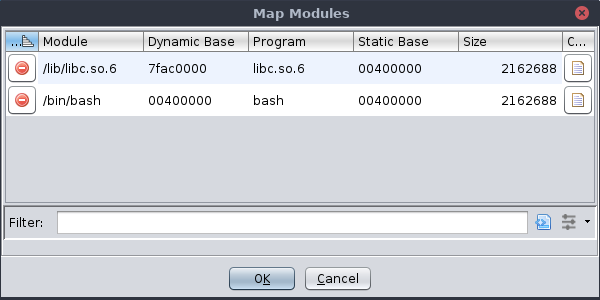
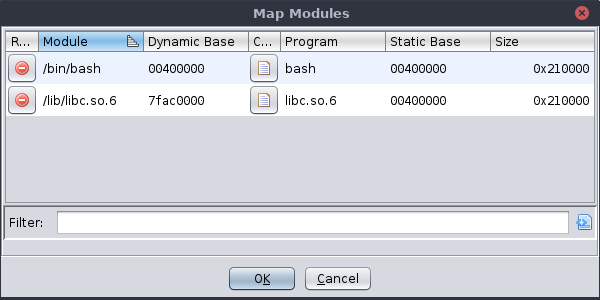
GP-642,944: Map Modules/Sections Dialog improvements

diff --git a/Ghidra/Debug/Debugger/src/main/java/ghidra/app/plugin/core/debug/gui/modules/DebuggerSectionMapProposalDialog.java b/Ghidra/Debug/Debugger/src/main/java/ghidra/app/plugin/core/debug/gui/modules/DebuggerSectionMapProposalDialog.java
@@ -15,6 +15,7 @@
  */
 package ghidra.app.plugin.core.debug.gui.modules;
 
+import java.util.List;
 import java.util.Map;
 import java.util.function.BiConsumer;
 import java.util.function.Function;
@@ -35,20 +36,19 @@ import ghidra.util.Swing;
 public class DebuggerSectionMapProposalDialog
 		extends AbstractDebuggerMapProposalDialog<SectionMapEntry> {
 
-	static final String BLANK = "";
 	static final int BUTTON_SIZE = 32;
 
 	protected enum SectionMapTableColumns
 		implements EnumeratedTableColumn<SectionMapTableColumns, SectionMapEntry> {
-		REMOVE("Remove", String.class, e -> BLANK, (e, v) -> nop()),
+		REMOVE("Remove", String.class, e -> "Remove Proposed Entry", (e, v) -> nop()),
 		MODULE_NAME("Module", String.class, e -> e.getModule().getName()),
 		SECTION_NAME("Section", String.class, e -> e.getSection().getName()),
 		DYNAMIC_BASE("Dynamic Base", Address.class, e -> e.getSection().getStart()),
+		CHOOSE("Choose", String.class, e -> "Choose Block", (e, s) -> nop()),
 		PROGRAM_NAME("Program", String.class, e -> e.getProgram().getName()),
 		BLOCK_NAME("Block", String.class, e -> e.getBlock().getName()),
 		STATIC_BASE("Static Base", Address.class, e -> e.getBlock().getStart()),
-		SIZE("Size", Long.class, e -> e.getLength()),
-		CHOOSE("Choose", String.class, e -> BLANK, (e, s) -> nop());
+		SIZE("Size", Long.class, e -> e.getLength());
 
 		private final String header;
 		private final Class<?> cls;
@@ -98,6 +98,19 @@ public class DebuggerSectionMapProposalDialog
 		}
 	}
 
+	protected static class SectionMapPropsalTableModel extends
+			DefaultEnumeratedColumnTableModel<SectionMapTableColumns, SectionMapEntry> {
+
+		public SectionMapPropsalTableModel() {
+			super("Section Map", SectionMapTableColumns.class);
+		}
+
+		@Override
+		public List<SectionMapTableColumns> defaultSortOrder() {
+			return List.of(SectionMapTableColumns.MODULE_NAME, SectionMapTableColumns.SECTION_NAME);
+		}
+	}
+
 	private final DebuggerModulesProvider provider;
 
 	public DebuggerSectionMapProposalDialog(DebuggerModulesProvider provider) {
@@ -106,8 +119,8 @@ public class DebuggerSectionMapProposalDialog
 	}
 
 	@Override
-	protected EnumeratedColumnTableModel<SectionMapEntry> createTableModel() {
-		return new DefaultEnumeratedColumnTableModel<>("Section Map", SectionMapTableColumns.class);
+	protected SectionMapPropsalTableModel createTableModel() {
+		return new SectionMapPropsalTableModel();
 	}
 
 	@Override
@@ -121,9 +134,19 @@ public class DebuggerSectionMapProposalDialog
 		CellEditorUtils.installButton(table, filterPanel, removeCol,
 			DebuggerResources.ICON_DELETE, BUTTON_SIZE, this::removeEntry);
 
+		TableColumn dynBaseCol =
+			columnModel.getColumn(SectionMapTableColumns.DYNAMIC_BASE.ordinal());
+		dynBaseCol.setCellRenderer(CustomToStringCellRenderer.MONO_OBJECT);
+
 		TableColumn chooseCol = columnModel.getColumn(SectionMapTableColumns.CHOOSE.ordinal());
 		CellEditorUtils.installButton(table, filterPanel, chooseCol, DebuggerResources.ICON_PROGRAM,
 			BUTTON_SIZE, this::chooseAndSetBlock);
+
+		TableColumn stBaseCol = columnModel.getColumn(SectionMapTableColumns.STATIC_BASE.ordinal());
+		stBaseCol.setCellRenderer(CustomToStringCellRenderer.MONO_OBJECT);
+
+		TableColumn sizeCol = columnModel.getColumn(SectionMapTableColumns.SIZE.ordinal());
+		sizeCol.setCellRenderer(CustomToStringCellRenderer.MONO_ULONG_HEX);
 	}
 
 	private void chooseAndSetBlock(SectionMapEntry entry) {

diff --git a/Ghidra/Debug/Debugger/src/main/java/ghidra/app/plugin/core/debug/gui/modules/DebuggerModuleMapProposalDialog.java b/Ghidra/Debug/Debugger/src/main/java/ghidra/app/plugin/core/debug/gui/modules/DebuggerModuleMapProposalDialog.java
@@ -15,6 +15,7 @@
  */
 package ghidra.app.plugin.core.debug.gui.modules;
 
+import java.util.List;
 import java.util.function.BiConsumer;
 import java.util.function.Function;
 
@@ -34,18 +35,17 @@ import ghidra.util.Swing;
 public class DebuggerModuleMapProposalDialog
 		extends AbstractDebuggerMapProposalDialog<ModuleMapEntry> {
 
-	static final String BLANK = "";
 	static final int BUTTON_SIZE = 32;
 
 	protected enum ModuleMapTableColumns
 		implements EnumeratedTableColumn<ModuleMapTableColumns, ModuleMapEntry> {
-		REMOVE("Remove", String.class, e -> BLANK, (e, v) -> nop()),
+		REMOVE("Remove", String.class, e -> "Remove Proposed Entry", (e, v) -> nop()),
 		MODULE_NAME("Module", String.class, e -> e.getModule().getName()),
 		DYNAMIC_BASE("Dynamic Base", Address.class, e -> e.getModule().getBase()),
+		CHOOSE("Choose", String.class, e -> "Choose Program", (e, v) -> nop()),
 		PROGRAM_NAME("Program", String.class, e -> e.getProgram().getName()),
 		STATIC_BASE("Static Base", Address.class, e -> e.getProgram().getImageBase()),
-		SIZE("Size", Long.class, e -> e.getModuleRange().getLength()),
-		CHOOSE("Choose", String.class, e -> BLANK, (e, v) -> nop());
+		SIZE("Size", Long.class, e -> e.getModuleRange().getLength());
 
 		private final String header;
 		private final Class<?> cls;
@@ -94,6 +94,19 @@ public class DebuggerModuleMapProposalDialog
 		}
 	}
 
+	protected static class ModuleMapPropsalTableModel extends
+			DefaultEnumeratedColumnTableModel<ModuleMapTableColumns, ModuleMapEntry> {
+
+		public ModuleMapPropsalTableModel() {
+			super("Module Map", ModuleMapTableColumns.class);
+		}
+
+		@Override
+		public List<ModuleMapTableColumns> defaultSortOrder() {
+			return List.of(ModuleMapTableColumns.MODULE_NAME);
+		}
+	}
+
 	private final DebuggerModulesProvider provider;
 
 	protected DebuggerModuleMapProposalDialog(DebuggerModulesProvider provider) {
@@ -102,8 +115,8 @@ public class DebuggerModuleMapProposalDialog
 	}
 
 	@Override
-	protected EnumeratedColumnTableModel<ModuleMapEntry> createTableModel() {
-		return new DefaultEnumeratedColumnTableModel<>("Module Map", ModuleMapTableColumns.class);
+	protected ModuleMapPropsalTableModel createTableModel() {
+		return new ModuleMapPropsalTableModel();
 	}
 
 	@Override
@@ -117,9 +130,19 @@ public class DebuggerModuleMapProposalDialog
 		CellEditorUtils.installButton(table, filterPanel, removeCol,
 			DebuggerResources.ICON_DELETE, BUTTON_SIZE, this::removeEntry);
 
+		TableColumn dynBaseCol =
+			columnModel.getColumn(ModuleMapTableColumns.DYNAMIC_BASE.ordinal());
+		dynBaseCol.setCellRenderer(CustomToStringCellRenderer.MONO_OBJECT);
+
 		TableColumn chooseCol = columnModel.getColumn(ModuleMapTableColumns.CHOOSE.ordinal());
 		CellEditorUtils.installButton(table, filterPanel, chooseCol,
 			DebuggerResources.ICON_PROGRAM, BUTTON_SIZE, this::chooseAndSetProgram);
+
+		TableColumn stBaseCol = columnModel.getColumn(ModuleMapTableColumns.STATIC_BASE.ordinal());
+		stBaseCol.setCellRenderer(CustomToStringCellRenderer.MONO_OBJECT);
+
+		TableColumn sizeCol = columnModel.getColumn(ModuleMapTableColumns.SIZE.ordinal());
+		sizeCol.setCellRenderer(CustomToStringCellRenderer.MONO_ULONG_HEX);
 	}
 
 	private void chooseAndSetProgram(ModuleMapEntry entry) {

diff --git a/Ghidra/Debug/Debugger/src/main/java/ghidra/app/plugin/core/debug/gui/modules/DebuggerModulesProvider.java b/Ghidra/Debug/Debugger/src/main/java/ghidra/app/plugin/core/debug/gui/modules/DebuggerModulesProvider.java
@@ -972,12 +972,19 @@ public class DebuggerModulesProvider extends ComponentProviderAdapter {
 	}
 
 	protected void promptModuleProposal(Collection<ModuleMapEntry> proposal) {
+		if (proposal.isEmpty()) {
+			Msg.showInfo(this, getComponent(), "Map Modules",
+				"Could not formulate a proposal for any selected module." +
+					" You may need to import and/or open the destination images first.");
+			return;
+		}
 		Collection<ModuleMapEntry> adjusted =
 			moduleProposalDialog.adjustCollection(getTool(), proposal);
-		if (adjusted != null && staticMappingService != null) {
-			tool.executeBackgroundCommand(
-				new MapModulesBackgroundCommand(staticMappingService, adjusted), currentTrace);
+		if (adjusted == null || staticMappingService == null) {
+			return;
 		}
+		tool.executeBackgroundCommand(
+			new MapModulesBackgroundCommand(staticMappingService, adjusted), currentTrace);
 	}
 
 	protected void mapModules(Set<TraceModule> modules) {
@@ -1004,12 +1011,19 @@ public class DebuggerModulesProvider extends ComponentProviderAdapter {
 	}
 
 	protected void promptSectionProposal(Collection<SectionMapEntry> proposal) {
+		if (proposal.isEmpty()) {
+			Msg.showInfo(this, getComponent(), "Map Sections",
+				"Could not formulate a proposal for any selected section." +
+					" You may need to import and/or open the destination images first.");
+			return;
+		}
 		Collection<SectionMapEntry> adjusted =
 			sectionProposalDialog.adjustCollection(getTool(), proposal);
-		if (adjusted != null && staticMappingService != null) {
-			tool.executeBackgroundCommand(
-				new MapSectionsBackgroundCommand(staticMappingService, adjusted), currentTrace);
+		if (adjusted == null || staticMappingService == null) {
+			return;
 		}
+		tool.executeBackgroundCommand(
+			new MapSectionsBackgroundCommand(staticMappingService, adjusted), currentTrace);
 	}
 
 	protected void mapSections(Set<TraceSection> sections) {

diff --git a/Ghidra/Debug/ProposedUtils/src/main/java/docking/widgets/table/IconButtonTableCellRenderer.java b/Ghidra/Debug/ProposedUtils/src/main/java/docking/widgets/table/IconButtonTableCellRenderer.java
@@ -15,27 +15,31 @@
  */
 package docking.widgets.table;
 
-import java.awt.Component;
-import java.awt.Dimension;
+import java.awt.*;
 
-import javax.swing.Icon;
-import javax.swing.JButton;
+import javax.swing.*;
 
 import ghidra.docking.settings.Settings;
 import ghidra.util.table.column.AbstractGhidraColumnRenderer;
 
 public class IconButtonTableCellRenderer
 		extends AbstractGhidraColumnRenderer<String> {
+	protected final JPanel panel = new JPanel();
 	protected final JButton button = new JButton("");
 
 	public IconButtonTableCellRenderer(Icon icon, int buttonSize) {
 		button.setIcon(icon);
 		button.setMinimumSize(new Dimension(buttonSize, buttonSize));
+		panel.setMinimumSize(new Dimension(buttonSize, buttonSize));
+		panel.setLayout(new BorderLayout());
+		panel.add(button);
 	}
 
 	@Override
 	public Component getTableCellRendererComponent(GTableCellRenderingData data) {
-		return button;
+		super.getTableCellRendererComponent(data); // Waste, but sets background
+		panel.setBackground(getBackground());
+		return panel;
 	}
 
 	@Override

diff --git a/Ghidra/Debug/ProposedUtils/src/main/java/docking/widgets/table/IconButtonTableCellEditor.java b/Ghidra/Debug/ProposedUtils/src/main/java/docking/widgets/table/IconButtonTableCellEditor.java
@@ -51,6 +51,7 @@ public class IconButtonTableCellEditor<R> extends AbstractCellEditor
 	public Component getTableCellEditorComponent(JTable table, Object value, boolean isSelected,
 			int row, int column) {
 		this.row = filterPanel.getRowObject(row);
+		button.setToolTipText(value.toString());
 		return button;
 	}
 
